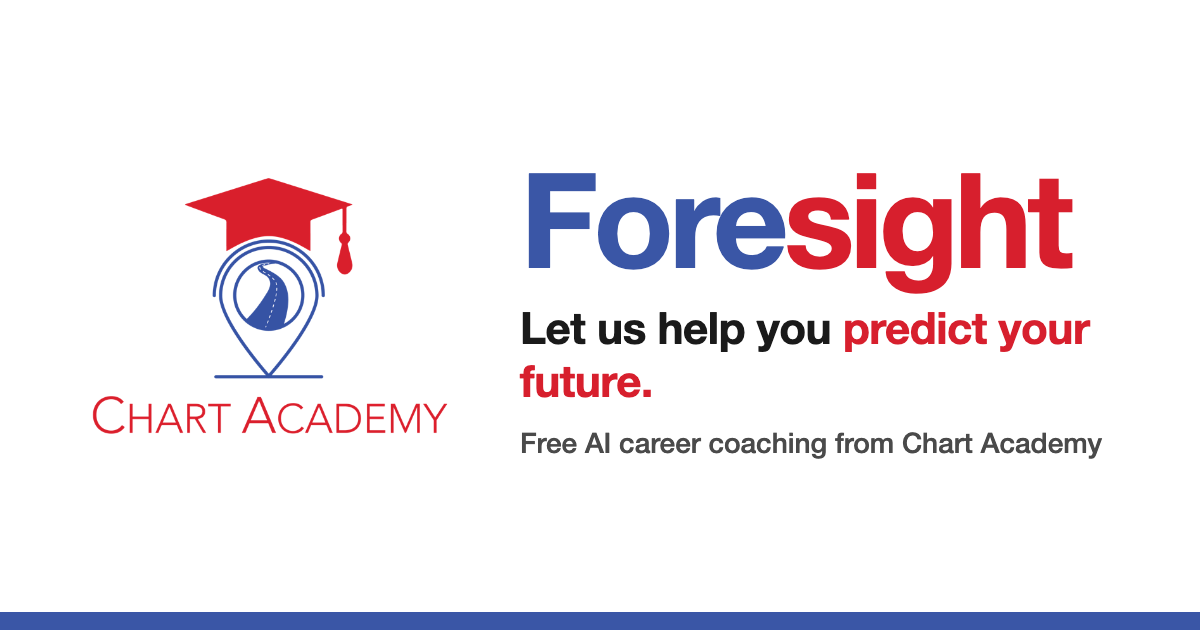
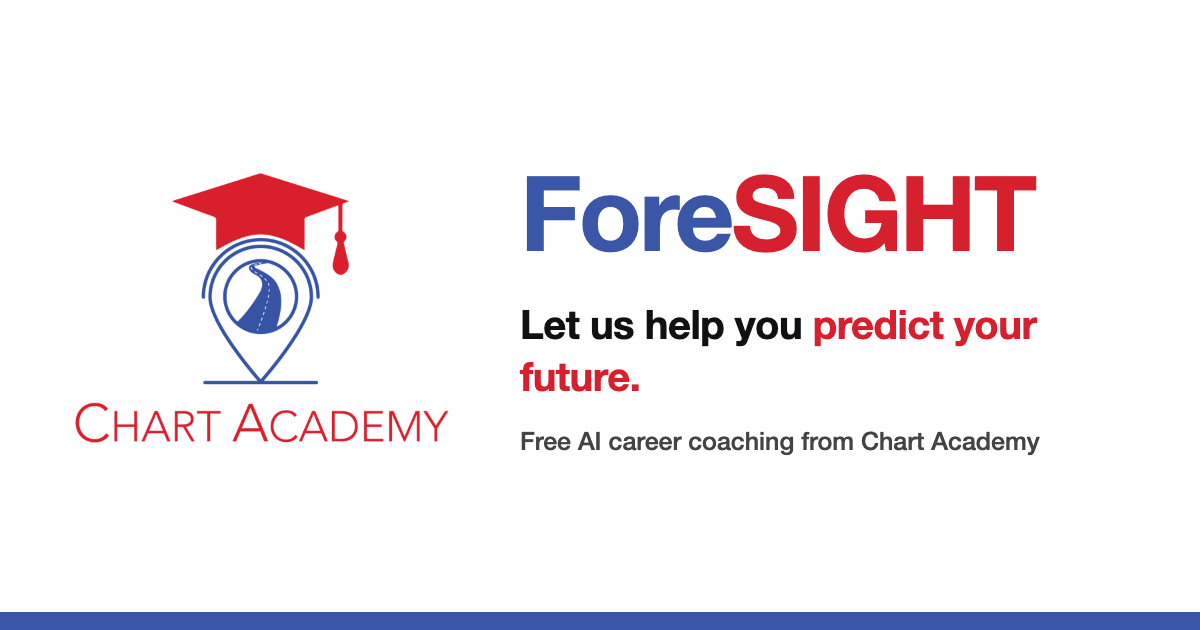
Write the app name as ForeSIGHT (SIGHT in capitals)
Wordmark, app name, browser title, link previews, and the share image.
Screen readers still hear the plain word "Foresight" so it isn't spelled out.

diff --git a/server/index.js b/server/index.js
@@ -92,10 +92,10 @@ function serveWeb(req, res) {
   res.end(file.endsWith("index.html") ? withShareTags(readFileSync(file, "utf8"), req) : readFileSync(file));
 }
 
-// Link previews (texts, email, LinkedIn, Facebook) and home-screen icons: the Chart Academy graphic with Foresight.
+// Link previews (texts, email, LinkedIn, Facebook) and home-screen icons: the Chart Academy graphic with ForeSIGHT.
 // Social sites need full addresses, so they're built from the address the page was requested at.
 const SHARE = {
-  title: "Foresight by Chart Academy",
+  title: "ForeSIGHT by Chart Academy",
   description: "Let us help you predict your future. Free AI career coaching that scores every job 0 to 100 and shows your real chances of an interview and an offer.",
 };
 function withShareTags(html, req) {
@@ -103,11 +103,11 @@ function withShareTags(html, req) {
   const site = `${proto}://${req.headers.host}`;
   const tags = [
     `<meta name="description" content="${SHARE.description}">`,
-    `<meta property="og:type" content="website">`, `<meta property="og:site_name" content="Foresight">`,
+    `<meta property="og:type" content="website">`, `<meta property="og:site_name" content="ForeSIGHT">`,
     `<meta property="og:title" content="${SHARE.title}">`, `<meta property="og:description" content="${SHARE.description}">`,
     `<meta property="og:url" content="${site}/">`,
     `<meta property="og:image" content="${site}/share.png">`, `<meta property="og:image:width" content="1200">`, `<meta property="og:image:height" content="630">`,
-    `<meta property="og:image:alt" content="Chart Academy logo with Foresight: Let us help you predict your future.">`,
+    `<meta property="og:image:alt" content="Chart Academy logo with ForeSIGHT: Let us help you predict your future.">`,
     `<meta name="twitter:card" content="summary_large_image">`, `<meta name="twitter:image" content="${site}/share.png">`,
     `<link rel="apple-touch-icon" href="/apple-touch-icon.png">`, `<meta name="theme-color" content="#3A56A6">`,
   ].join("");

diff --git a/app/components/Wordmark.tsx b/app/components/Wordmark.tsx
@@ -1,12 +1,12 @@
-// The Foresight wordmark: heavy type, "Fore" in blue and "sight" in red. Screen readers hear one word.
+// The ForeSIGHT wordmark: heavy type, "Fore" in blue and "SIGHT" in red. Screen readers hear one word, "Foresight".
 import { Text } from 'react-native';
-import { APP_NAME, NAME_PARTS } from '../brand';
+import { NAME_PARTS, SPOKEN_NAME } from '../brand';
 import { colors } from '../theme';
 
 export default function Wordmark({ size = 28 }: { size?: number }) {
   const style = { fontSize: size, lineHeight: Math.round(size * 1.15), fontWeight: '900' as const, letterSpacing: -0.04 * size };
   return (
-    <Text style={style} accessibilityRole="header" accessibilityLabel={APP_NAME}>
+    <Text style={style} accessibilityRole="header" accessibilityLabel={SPOKEN_NAME}>
       <Text style={{ color: colors.blue }}>{NAME_PARTS[0]}</Text>
       <Text style={{ color: colors.red }}>{NAME_PARTS[1]}</Text>
     </Text>

diff --git a/app/brand.ts b/app/brand.ts
@@ -1,5 +1,8 @@
 // The product name, used across the app. Change it here to rename the app everywhere.
-// The wordmark shows "Fore" in Chart Academy blue and "sight" in Chart Academy red (see components/Wordmark.tsx).
-export const APP_NAME = 'Foresight';
-export const NAME_PARTS = ['Fore', 'sight'] as const;
+// Written "ForeSIGHT": the wordmark shows "Fore" in Chart Academy blue and "SIGHT" in Chart Academy red
+// (see components/Wordmark.tsx).
+export const APP_NAME = 'ForeSIGHT';
+export const NAME_PARTS = ['Fore', 'SIGHT'] as const;
+// Screen readers would spell out "SIGHT" letter by letter, so they hear the plain word instead.
+export const SPOKEN_NAME = 'Foresight';
 export const APP_TAGLINE = 'See your career before you choose it.';
